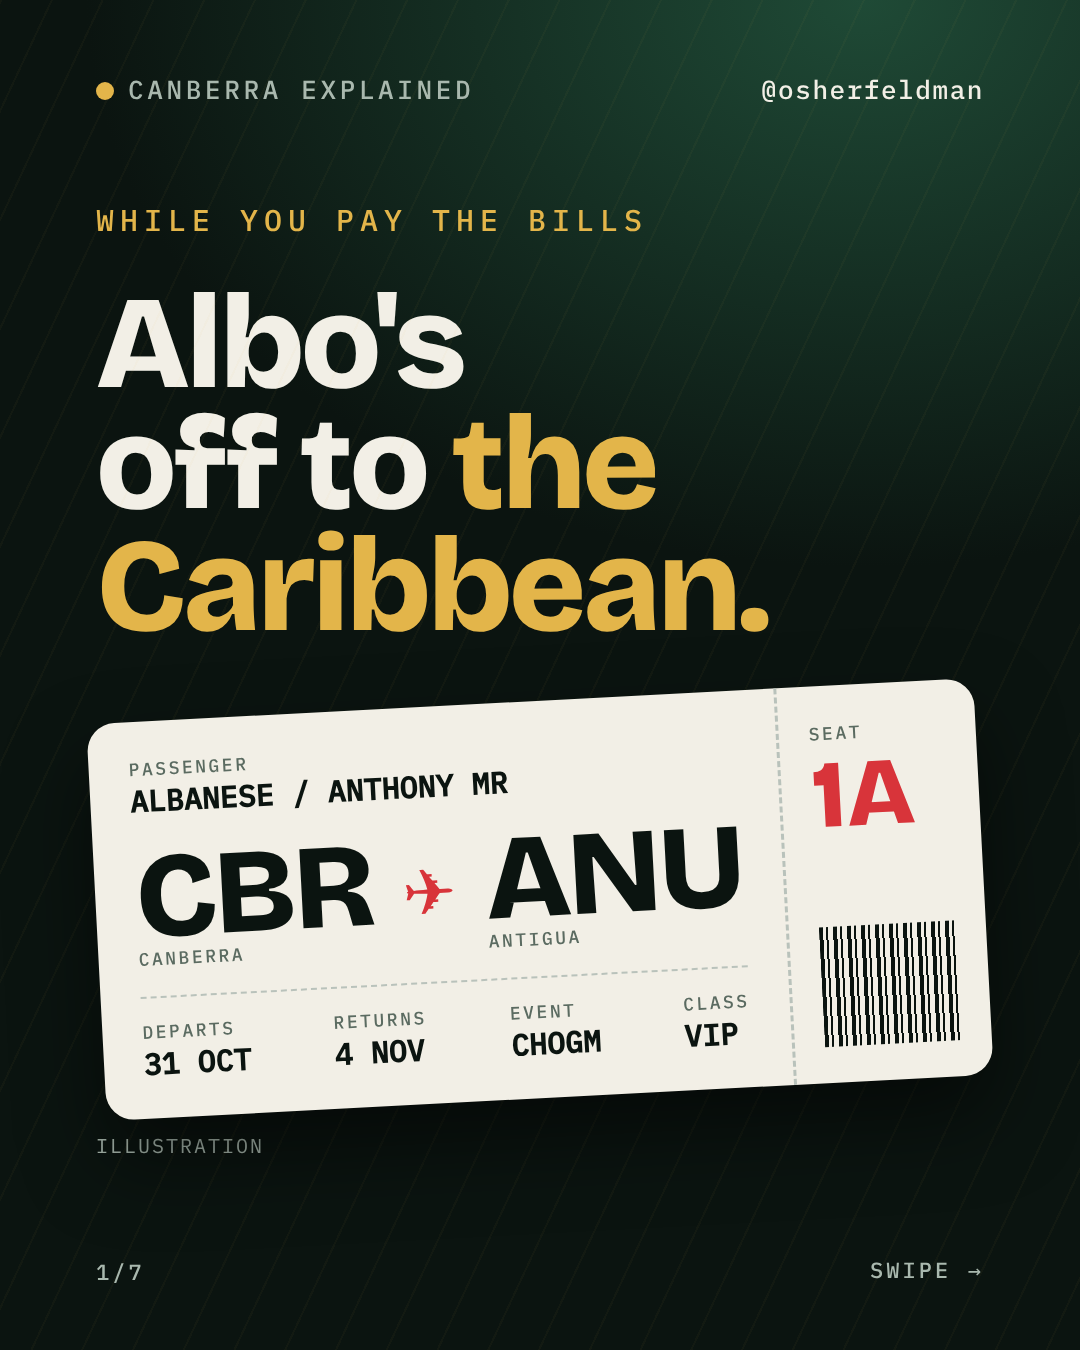
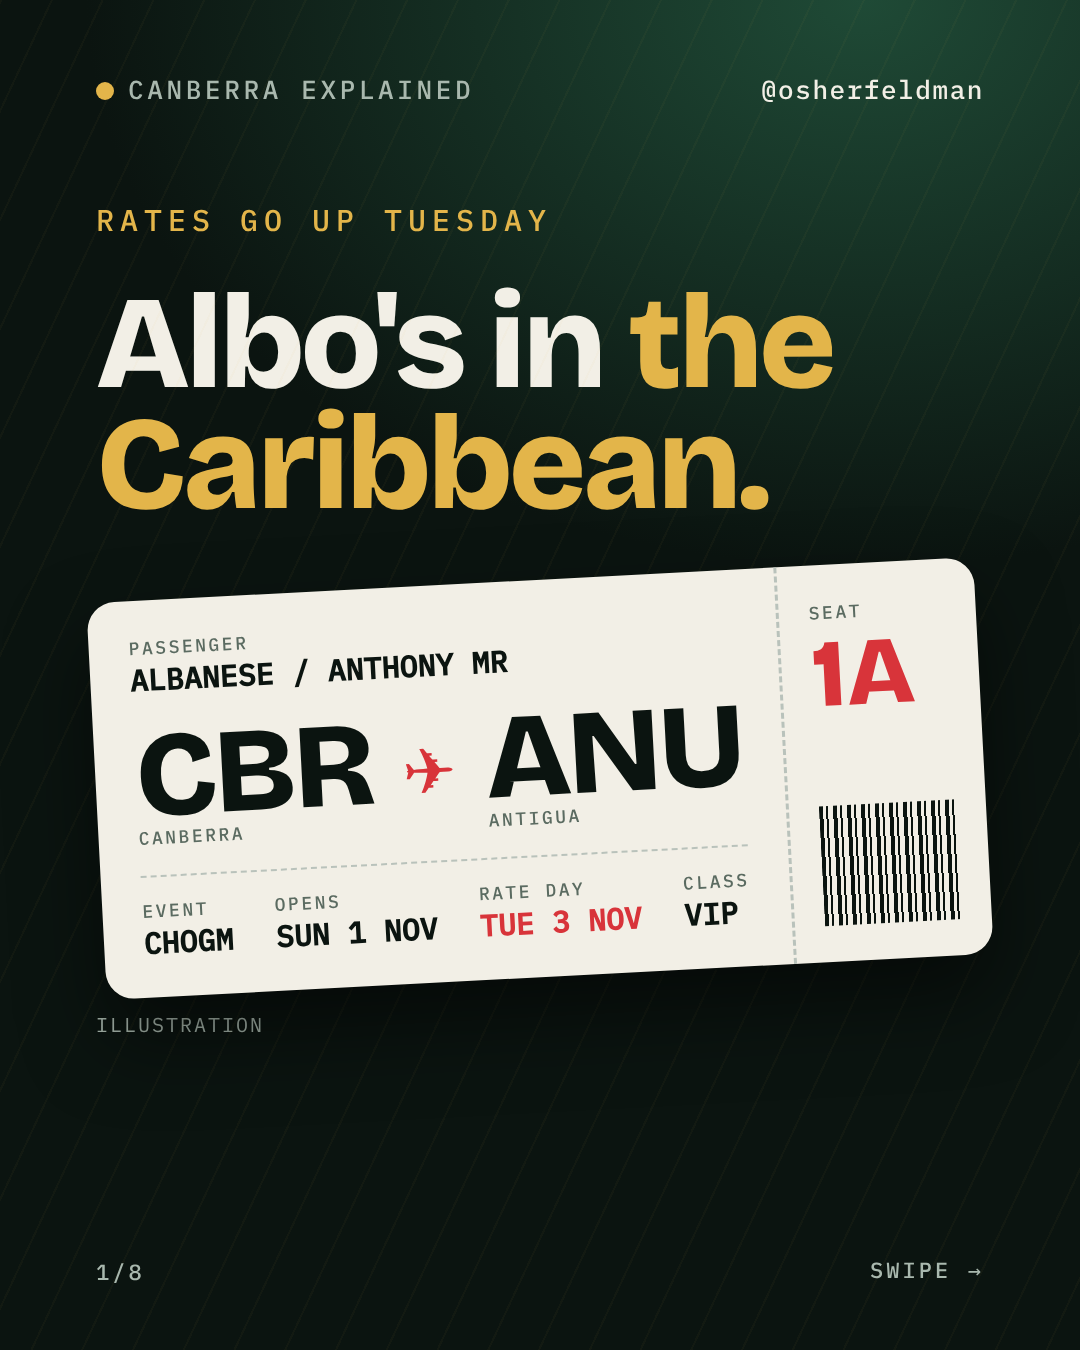
Rebuild CHOGM carousel from the full ABC article (8 slides)
Claude-Session: https://claude.ai/code/session_01Sgrt9V1fmYhj6jZ8Z8u2QD

diff --git a/carousel/build.js b/carousel/build.js
@@ -4,53 +4,59 @@ const S = process.argv[2], OUT = '/home/user/Ww/carousel', F = S + '/fonts';
 const glob = (d, f) => path.join(F, fs.readdirSync(F).find(x => x.includes(d)), 'package/files', f);
 const font = (fam, w, file) => `@font-face{font-family:"${fam}";font-weight:${w};src:url(data:font/woff2;base64,${fs.readFileSync(file).toString('base64')}) format("woff2")}`;
 const css = [400,500,700,800].map(w => font('B', w, glob('bricolage', `bricolage-grotesque-latin-${w}-normal.woff2`))).join('') + [400,500].map(w => font('M', w, glob('plex', `ibm-plex-mono-latin-${w}-normal.woff2`))).join('');
-const N = 7;
+const N = 8;
 const chrome = (i, dark = true) => `<div class="hd"><span><i></i>Canberra explained</span><span class="h">@osherfeldman</span></div>
-<div class="ft"><span>${i}/${N}</span><span>${i < N ? 'Swipe →' : 'Opinion · Sources: ABC News, SBS, PM\'s office · 1 Nov 2026'}</span></div>`;
+<div class="ft"><span>${i}/${N}</span><span>${i < N ? 'Swipe →' : 'Opinion · Source: ABC News, 1 Nov 2026'}</span></div>`;
 const slides = [
 // 1 cover: boarding pass
 `<div class="s cover">${chrome(1)}
- <div class="kick">While you pay the bills</div>
- <h1>Albo's off to <em>the Caribbean.</em></h1>
+ <div class="kick">Rates go up Tuesday</div>
+ <h1>Albo's in <em>the Caribbean.</em></h1>
  <div class="pass">
   <div class="pl"><div class="row"><div><small>Passenger</small><b>ALBANESE / ANTHONY MR</b></div></div>
    <div class="route"><div><big>CBR</big><small>Canberra</small></div><div class="plane">✈</div><div><big>ANU</big><small>Antigua</small></div></div>
-   <div class="row g"><div><small>Departs</small><b>31 OCT</b></div><div><small>Returns</small><b>4 NOV</b></div><div><small>Event</small><b>CHOGM</b></div><div><small>Class</small><b>VIP</b></div></div></div>
+   <div class="row g"><div><small>Event</small><b>CHOGM</b></div><div><small>Opens</small><b>SUN 1 NOV</b></div><div><small>Rate day</small><b class="r">TUE 3 NOV</b></div><div><small>Class</small><b>VIP</b></div></div></div>
   <div class="stub"><small>Seat</small><big>1A</big><div class="bars"></div></div>
  </div>
  <div class="note">Illustration</div></div>`,
-// 2 where
-`<div class="s">${chrome(2)}
- <div class="kick">The trip</div>
- <h2>Five days. <em>The other side of the world.</em></h2>
- <dl class="facts"><dt>Where</dt><dd>St John's, Antigua and Barbuda</dd><dt>What</dt><dd>The 28th Commonwealth Heads of Government Meeting</dd><dt>When</dt><dd>Travel 31 October – 4 November 2026</dd><dt>Who's there</dt><dd>King Charles, plus the UK and Canadian leaders</dd></dl></div>`,
+// 2 the week
+`<div class="s red">${chrome(2)}
+ <div class="kick">His week vs your week</div>
+ <div class="cal"><div class="day"><small>Sun 1 Nov</small><b>Leaders' cricket match</b><span>Viv Richards Stadium, Antigua. He'll be there.</span></div>
+ <div class="day hot"><small>Tue 3 Nov</small><b>Interest rate rise expected</b><span>Back home. Colleagues left to face the fallout.</span></div></div>
+ <h2>You get the rate rise. <em>He gets the cricket.</em></h2></div>`,
 // 3 agenda
 `<div class="s">${chrome(3)}
- <div class="kick">On the agenda</div>
- <h2>Here's what he flew there to discuss</h2>
- <ul class="chips"><li>Climate change</li><li>Ocean preservation</li><li>Trade</li><li>Investment</li><li>Artificial intelligence</li><li class="hot">Reparations for colonialism</li></ul>
- <p class="punch">Now find the one that brings down <em>your power bill.</em></p></div>`,
+ <div class="kick">On the table at CHOGM</div>
+ <ul class="chips"><li>Climate change</li><li>Our oceans</li><li>Trade and investment</li><li>The rise of AI</li><li>A UN Security Council seat</li><li class="hot">Reparations for slavery</li></ul>
+ <p class="punch">Missing from the list: <em>your mortgage.</em></p></div>`,
 // 4 why
 `<div class="s">${chrome(4)}
- <div class="kick">His reason</div>
- <blockquote>He says he's going at the <em>personal request of King Charles.</em></blockquote>
- <p class="punch small">A prime minister who wants Australia to become a republic, flying across the world because the King asked him to.</p>
- <div class="side"><small>Also on his list</small><b>Lobbying for Australia's 2029–30 UN Security Council seat</b></div></div>`,
-// 5 meanwhile
-`<div class="s red">${chrome(5)}
- <div class="kick">Meanwhile, at home</div>
- <ul class="bills"><li><span>Rent</span><s></s></li><li><span>Groceries</span><s></s></li><li><span>Power</span><s></s></li><li><span>Mortgage</span><s></s></li></ul>
- <h2>Australians are doing the maths. <em>He's doing the Caribbean.</em></h2>
- <p class="src">The Coalition says he's "jetting off" while Australians struggle with the cost of living.</p></div>`,
-// 6 labor reply
+ <div class="kick">His reason for going</div>
+ <blockquote>He says he's there at the <em>personal request of King Charles.</em></blockquote>
+ <p class="punch small">A prime minister who wants Australia to become a republic, flying across the world because the King asked him to.</p></div>`,
+// 5 backpackers
+`<div class="s">${chrome(5)}
+ <div class="kick">His gift to the UK</div>
+ <h2>British backpackers <em>won't have to work</em> in the regions.</h2>
+ <dl class="facts"><dt>UK visas</dt><dd>About 80,000 a year, nearly double since the 2021 trade deal</dd><dt>The cost</dt><dd>The deal is partly blamed for rural labour shortages</dd></dl>
+ <p class="punch">Good news for London. <em>What about the farms?</em></p></div>`,
+// 6 china
 `<div class="s">${chrome(6)}
- <div class="kick">Labor's answer</div>
- <blockquote>Deputy PM Richard Marles called the criticism <em>unreasonable.</em></blockquote>
- <p class="punch">Tell that to the family choosing between <em>groceries and the power bill.</em></p></div>`,
-// 7 cta
-`<div class="s cta">${chrome(7)}
+ <div class="kick">Who built the venue</div>
+ <h2>The port. The airport. The cricket stadium. <em>China paid for them.</em></h2>
+ <p class="punch small">Beijing has poured billions into the Caribbean. Washington just pledged US$340 million. Australia is sending a prime minister to watch the cricket.</p></div>`,
+// 7 november
+`<div class="s">${chrome(7)}
+ <div class="kick">And that's just the start</div>
+ <h2>Next up: <em>summit season.</em></h2>
+ <p class="src">All in November:</p>
+ <ul class="trips"><li>COP31</li><li>APEC</li><li>G20</li><li>East Asia Summit</li></ul>
+ <p class="punch">How many days will he spend <em>in Australia</em> this month?</p></div>`,
+// 8 cta
+`<div class="s cta">${chrome(8)}
  <div class="kick">Your call</div>
- <h2>Should the PM be <em>at home</em> or on the world stage?</h2>
+ <h2>Rate rise week. Should the PM be <em>at home?</em></h2>
  <div class="vote"><div>🏠 <b>Stay home</b><small>Comment HOME</small></div><div>🌏 <b>Go global</b><small>Comment WORLD</small></div></div>
  <div class="follow"><span>Follow</span> @osherfeldman</div></div>`,
 ];
@@ -97,6 +103,16 @@ blockquote{margin:0;font-size:92px;font-weight:800;line-height:.98;letter-spacin
 .bills{list-style:none;margin:0;padding:0;display:grid;grid-template-columns:1fr 1fr;gap:22px}
 .bills li{position:relative;font-size:64px;font-weight:800;background:rgba(242,239,230,.06);border:2px solid rgba(255,122,110,.4);border-radius:22px;padding:26px 34px}
 .bills s{position:absolute;right:30px;top:50%;width:46px;height:46px;margin-top:-23px;background:#ff7a6e;clip-path:polygon(50% 0,100% 60%,68% 60%,68% 100%,32% 100%,32% 60%,0 60%)}
+.pass b.r{color:var(--red)}
+.cal{display:flex;flex-direction:column;gap:26px}
+.day{background:rgba(242,239,230,.07);border:2px solid rgba(242,239,230,.22);border-radius:28px;padding:34px 40px;display:flex;flex-direction:column;gap:10px}
+.day small{font:500 26px M,monospace;letter-spacing:.16em;text-transform:uppercase;color:var(--dim)}
+.day b{font-size:64px;font-weight:800;letter-spacing:-.02em;line-height:1}
+.day span{font-size:34px;color:var(--dim)}
+.day.hot{background:#ff7a6e;border-color:#ff7a6e;color:var(--f)}.day.hot small,.day.hot span{color:rgba(11,20,16,.75)}
+.trips{list-style:none;margin:0;padding:0;display:grid;grid-template-columns:1fr 1fr;gap:20px}
+.trips li{font-size:60px;font-weight:800;border:2px solid rgba(227,181,74,.5);border-radius:22px;padding:24px 34px;position:relative}
+.trips li::after{content:"✈";position:absolute;right:30px;color:var(--gold);font-size:44px;top:50%;transform:translateY(-50%)}
 .src{margin:0;font:400 28px M,monospace;color:var(--dim);line-height:1.5}
 .vote{display:grid;grid-template-columns:1fr 1fr;gap:24px}
 .vote div{background:rgba(242,239,230,.07);border:2px solid rgba(242,239,230,.25);border-radius:28px;padding:40px 36px;font-size:64px}
